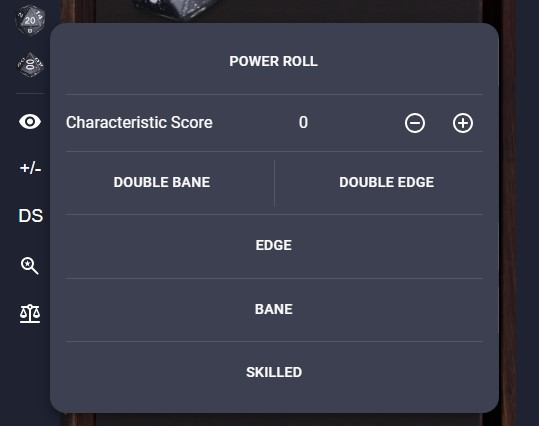
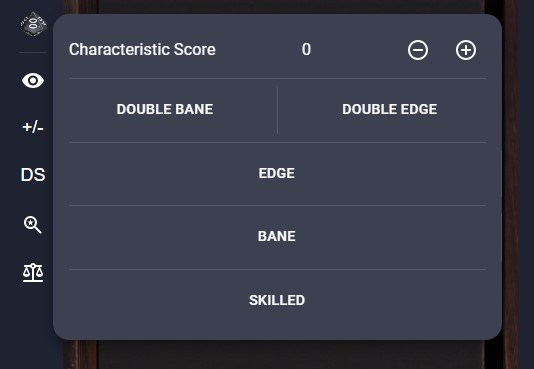
Update Readme
Setting aside this iteration to start again

diff --git a/README.md b/README.md
@@ -4,7 +4,7 @@ Added a new menu for Draw Steel bonuses and dice mechanics.
 
 ![Example](/docs/DS-dice.jpg)
 
-NOTE: Power Roll button removed until it is functional.
+
 
 ## Installing
 
@@ -19,7 +19,7 @@ to install the extension in Owlbear.
 - Click on the 'DS' button on the sidebar.
 - Adjust your Characteristic Score and select the appropriate modifiers.
 
-I removed the Power Roll button until I can get it fuctioning as intended.
+I was not able to impliment a power roll button while maintaining the original functionality of Owlbear Rodeo Dice. I am going to have another go at it with removing funcationality of the original extention as required.
 
 There is no logic to make sure you don't apply a Edge/Bane when you have a Double Edge/Bane.
 
